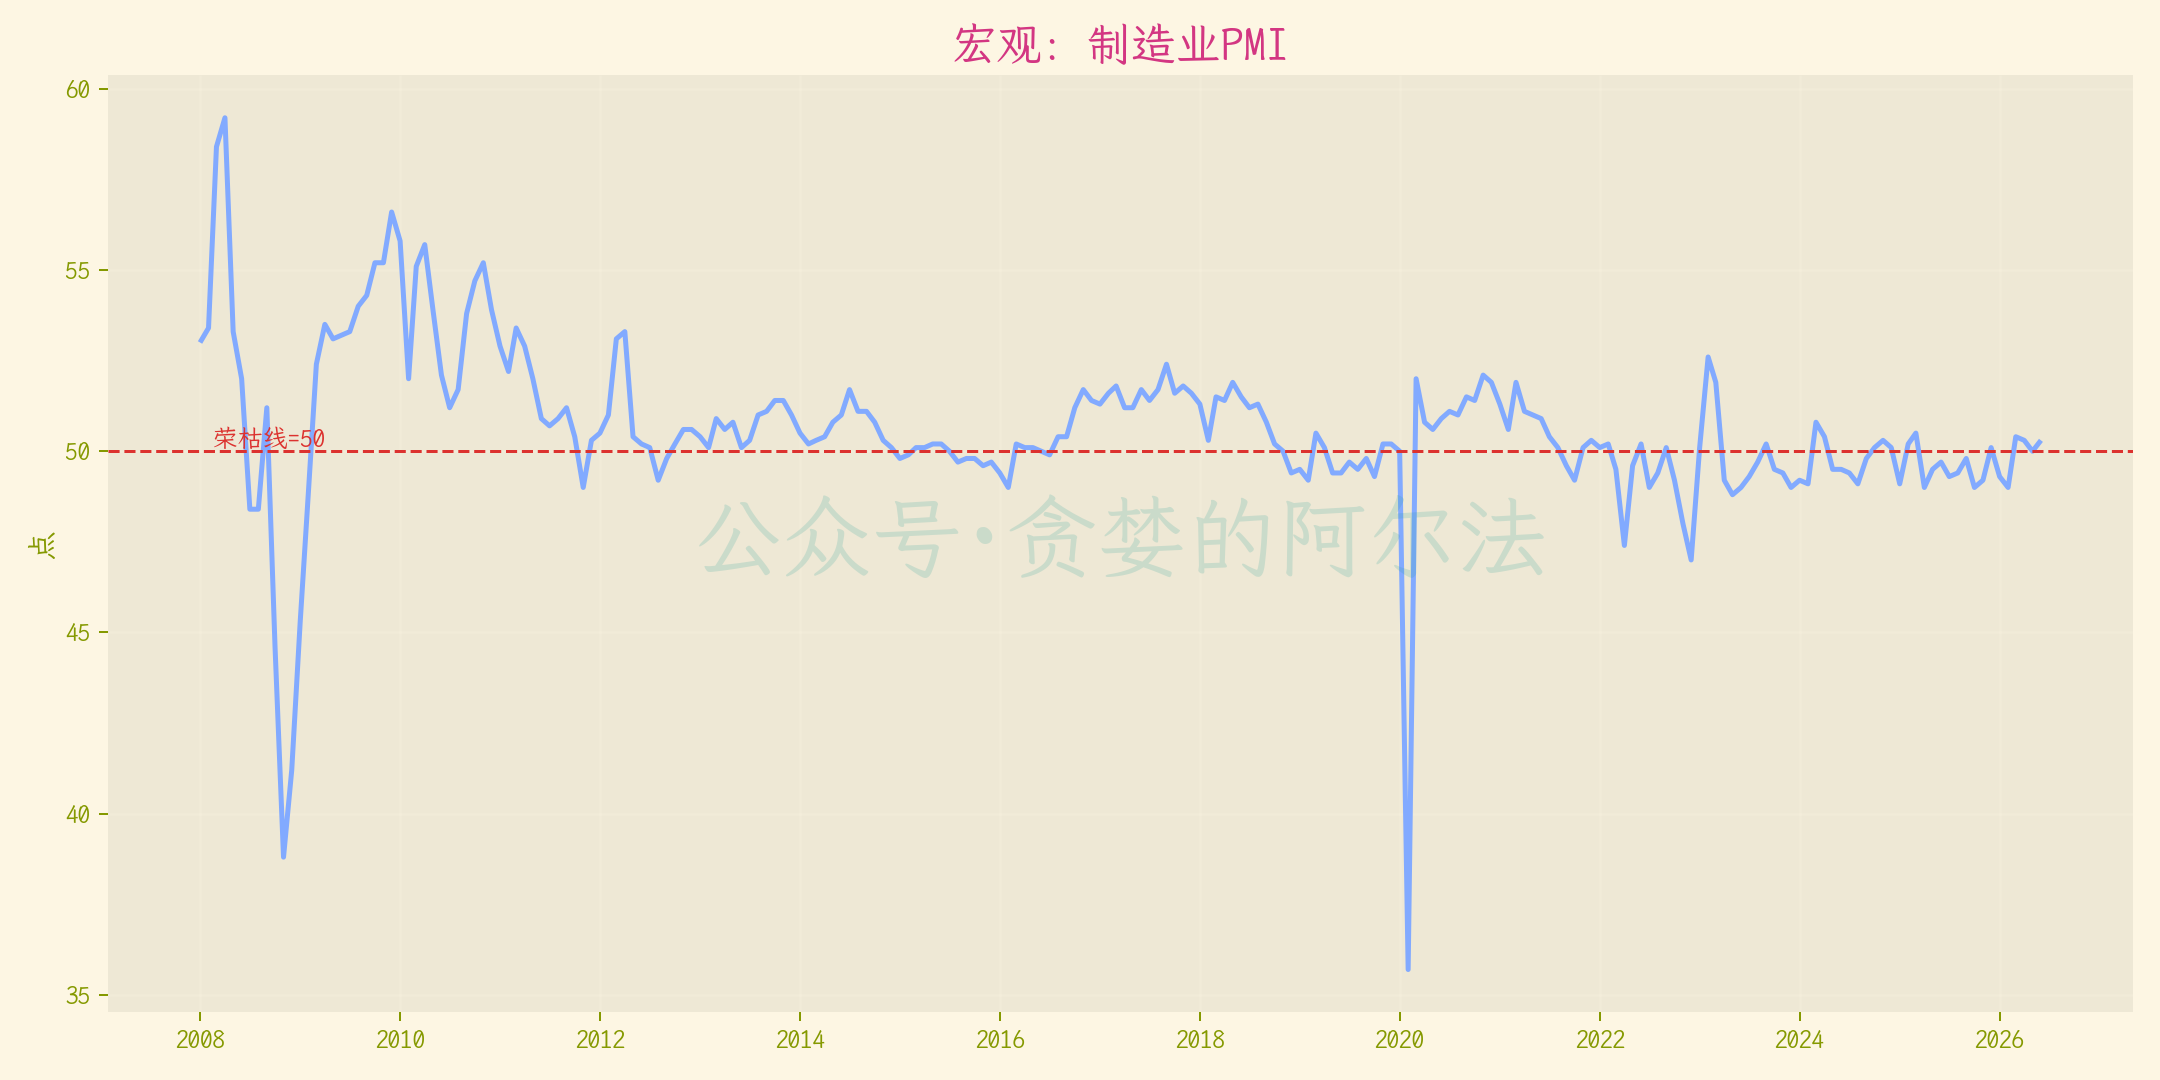
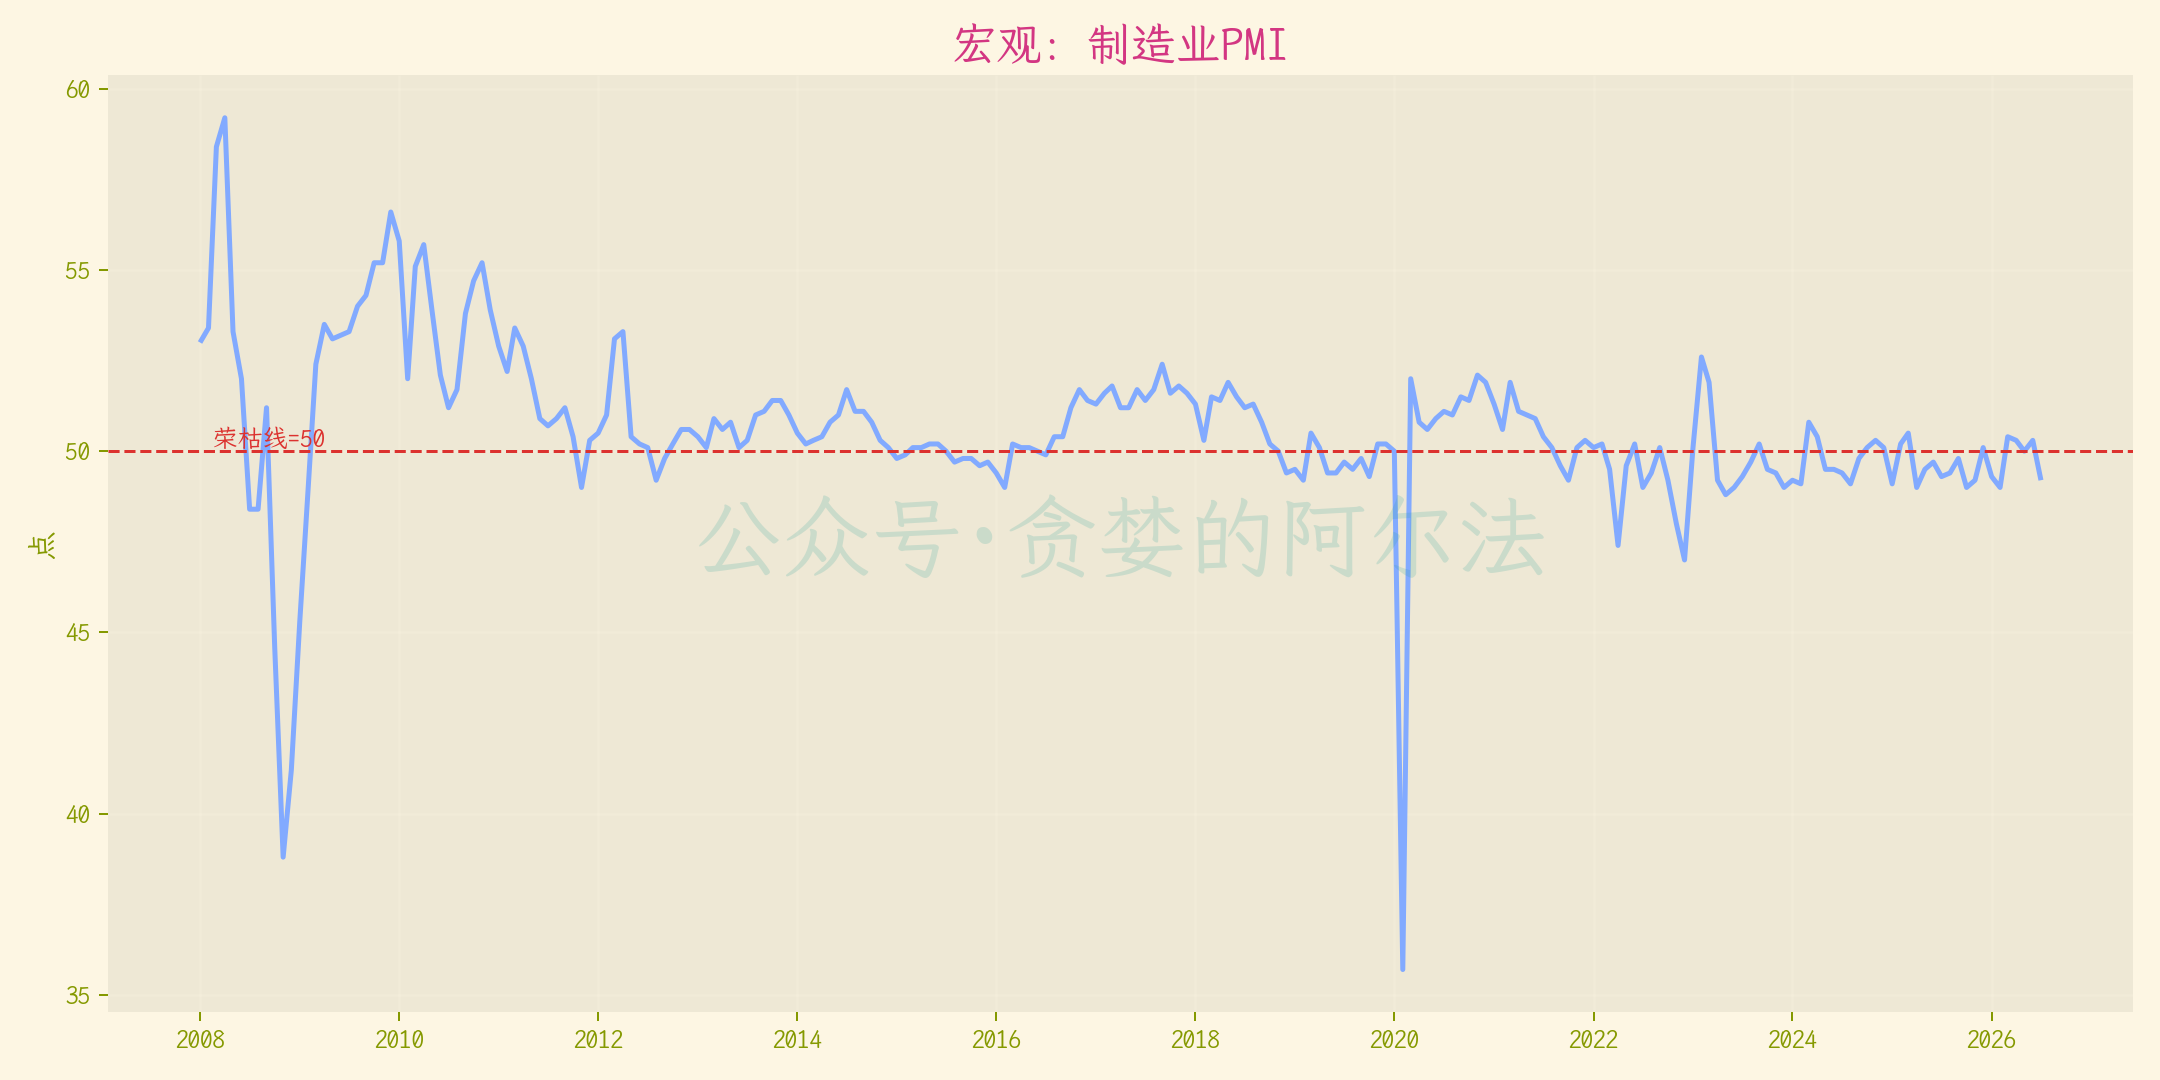
sync: 20260801

diff --git a/docs/bull_market/bull_market_score.md b/docs/bull_market/bull_market_score.md
@@ -1,13 +1,13 @@
 # 牛市概率评分
 
-当前总分：**67.8/100**
+当前总分：**54.2/100**
 
-状态判断：**牛市线索存在，但仍需宽度确认**
+状态判断：**修复线索偏弱，适合继续观察**
 
 | 模块 | 权重 | 得分 | 核心证据 |
 |---|---:|---:|---|
-| 全球 AI 重估 | 20 | 20.0 | 2023年以来截至2026-07-25，AI受益市场平均涨幅约 148.2%，中证500约 26.5%。 |
-| 国内宏观修复 | 20 | 15.0 | 2026-06-01 CPI 1.0%，PPI 4.1%，PMI 50.3，M1-M2 -3.1pct。 |
-| 流动性活化 | 20 | 10.2 | 2026-07-23 近20日融资买入额/成交金额约 17.42%，疫情前均值 17.93%。 |
-| 市场宽度扩散 | 20 | 7.5 | 2026-07-24 中证800 MA20宽度约 46%，60日创新高 2 只。 |
-| 估值与情绪空间 | 20 | 15.1 | 2026-07-24 10年国债 1.73%，沪深300股债收益差 5.22，中证500 2.00。 |
+| 全球 AI 重估 | 20 | 12.9 | 2023年以来截至2026-07-31，AI受益市场平均涨幅约 148.0%；近20日均值 -5.3%，近60日平均回撤 -9.7%。 |
+| 国内宏观修复 | 20 | 13.0 | 2026-06 CPI 1.0%，2026-06 PPI 4.1%，2026-07 PMI 49.2，2026-06 M1-M2 -4.0pct。 |
+| 流动性活化 | 20 | 8.3 | 2026-07-30 近20日融资买入额/成交金额约 16.61%，疫情前均值 17.93%。 |
+| 市场宽度扩散 | 20 | 12.2 | 2026-07-31 中证800 MA20宽度约 66%，60日创新高 6 只。 |
+| 估值与情绪空间 | 20 | 7.8 | 2026-07-31 10年国债 1.71%，估值安全垫 7.6/10；截至2026-07-31，国内重点指数近20日均值 -14.3%，双创/中证1000近60日平均回撤 -23.5%。 |
